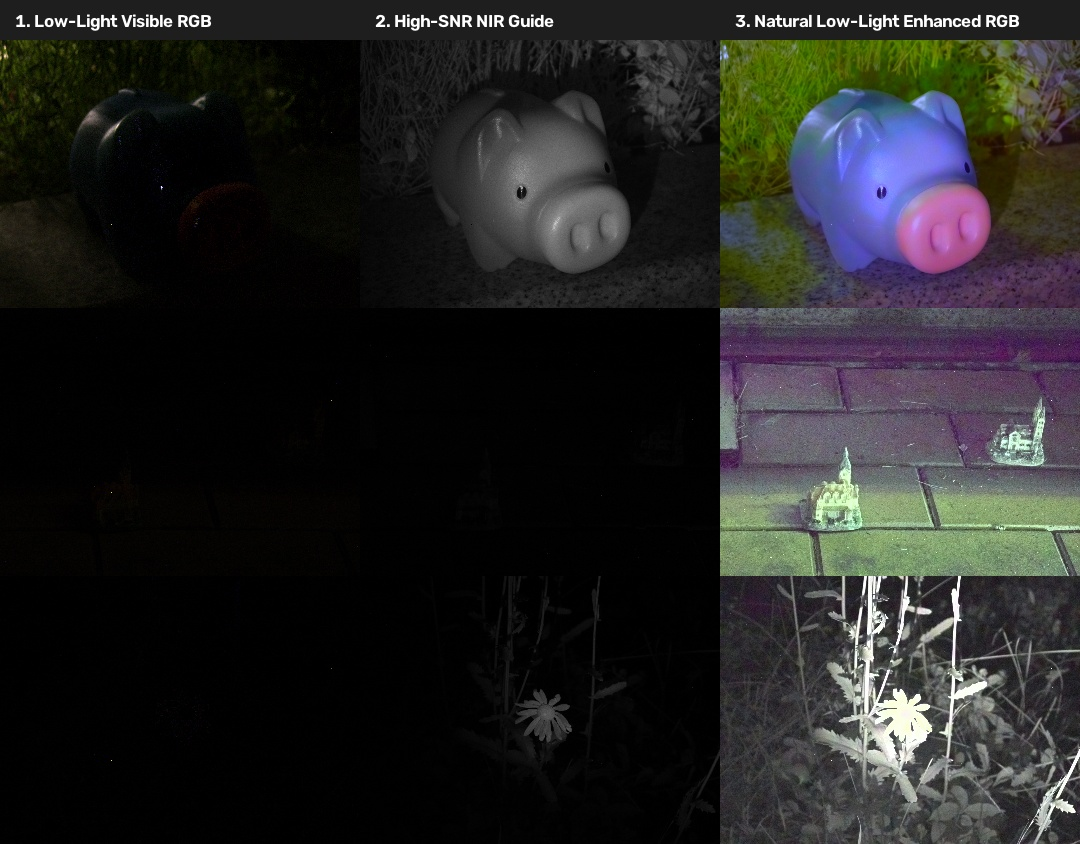
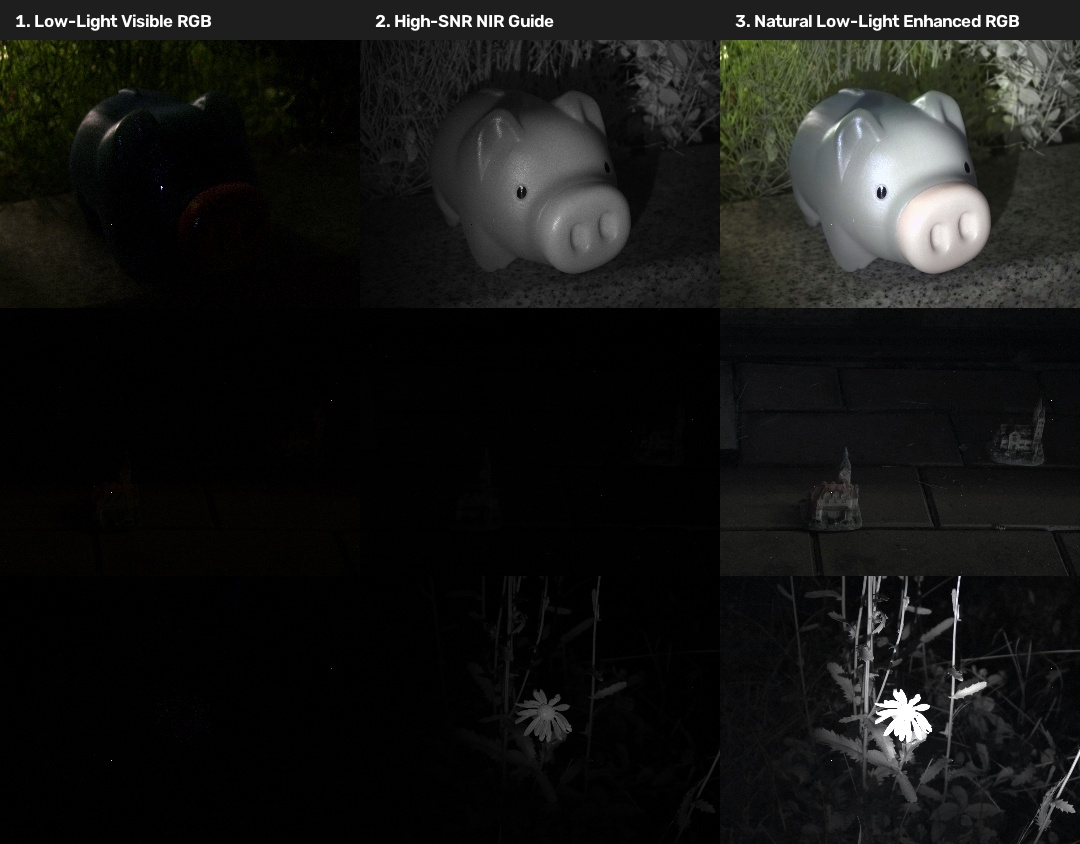
Adjust lowlight brightness scaling for realistic natural exposure (target_brightness=0.22, max_gain=3.0)

Changed region(s): [[0.6417, 0.0308, 1.0, 1.0]]

diff --git a/python/cmyg_separation/lowlight_enhancement.py b/python/cmyg_separation/lowlight_enhancement.py
@@ -53,10 +53,9 @@ def lowlight_region_colorcorrection(img_rgb, blk_size=4, top_ratio=0.1, threshol
     return np.clip(img_out[:h, :w, :], 0.0, 1.0)
 
 
-def enhance_lowlight_image(rgb_img, nir_img, mixed_rgb=None, alpha=0.5, sat_boost=1.75, use_top10_colorcorrection=True):
+def enhance_lowlight_image(rgb_img, nir_img, mixed_rgb=None, alpha=0.5, sat_boost=1.4, target_brightness=0.22, max_gain=3.0, use_top10_colorcorrection=True):
     """
     High-SNR YCrCb Luminance Fusion & Guided Chrominance Low-Light Image Enhancement.
-    Includes block-wise top 10% chromaticity mean extraction for dark regions.
     
     Args:
         rgb_img: Separated visible RGB image (float64 [0, 1])
@@ -64,10 +63,12 @@ def enhance_lowlight_image(rgb_img, nir_img, mixed_rgb=None, alpha=0.5, sat_boos
         mixed_rgb: CMYG raw mixed reference image (float64 [0, 1])
         alpha: Luminance fusion weight
         sat_boost: Chrominance saturation boost multiplier
+        target_brightness: Target mean luminance level (default: 0.22 for realistic natural exposure)
+        max_gain: Maximum luminance boost gain cap (default: 3.0)
         use_top10_colorcorrection: Apply block-wise top 10% chromaticity extraction
         
     Returns:
-        enhanced_rgb: High-contrast, naturally color-enhanced visible RGB image (float64 [0, 1])
+        enhanced_rgb: High-contrast, naturally exposed low-light visible RGB image (float64 [0, 1])
     """
     sep_rgb = np.clip(rgb_img.astype(np.float64), 0.0, 1.0)
     
@@ -76,7 +77,7 @@ def enhance_lowlight_image(rgb_img, nir_img, mixed_rgb=None, alpha=0.5, sat_boos
     else:
         mixed_rgb = np.clip(mixed_rgb.astype(np.float64), 0.0, 1.0)
         
-    # 1. Block-wise Top 10% Chromaticity Correction in Dark Regions (MATLAB 1:1 Port)
+    # 1. Block-wise Top 10% Chromaticity Correction in Dark Regions
     if use_top10_colorcorrection:
         sep_rgb_corr = lowlight_region_colorcorrection(sep_rgb)
     else:
@@ -90,11 +91,11 @@ def enhance_lowlight_image(rgb_img, nir_img, mixed_rgb=None, alpha=0.5, sat_boos
     c_yuv = cv2.cvtColor((sep_rgb_awb * 255.0).astype(np.uint8), cv2.COLOR_RGB2YCrCb).astype(np.float64) / 255.0
     m_yuv = cv2.cvtColor((mixed_rgb_awb * 255.0).astype(np.uint8), cv2.COLOR_RGB2YCrCb).astype(np.float64) / 255.0
     
-    # 4. High-SNR Luminance Adaptive Scaling
+    # 4. Controlled Natural Luminance Adaptive Scaling
     mean_my = np.mean(m_yuv[:, :, 0])
-    if mean_my > 0 and mean_my < 0.2:
-        grayfactor = min(0.38 / max(mean_my, 1e-4), 4.5)
-        mixed_y = np.power(np.clip(m_yuv[:, :, 0] * grayfactor, 0.0, 1.0), 0.78)
+    if mean_my > 0 and mean_my < target_brightness:
+        grayfactor = min(target_brightness / max(mean_my, 1e-4), max_gain)
+        mixed_y = np.power(np.clip(m_yuv[:, :, 0] * grayfactor, 0.0, 1.0), 0.85)
     else:
         mixed_y = m_yuv[:, :, 0]
         
